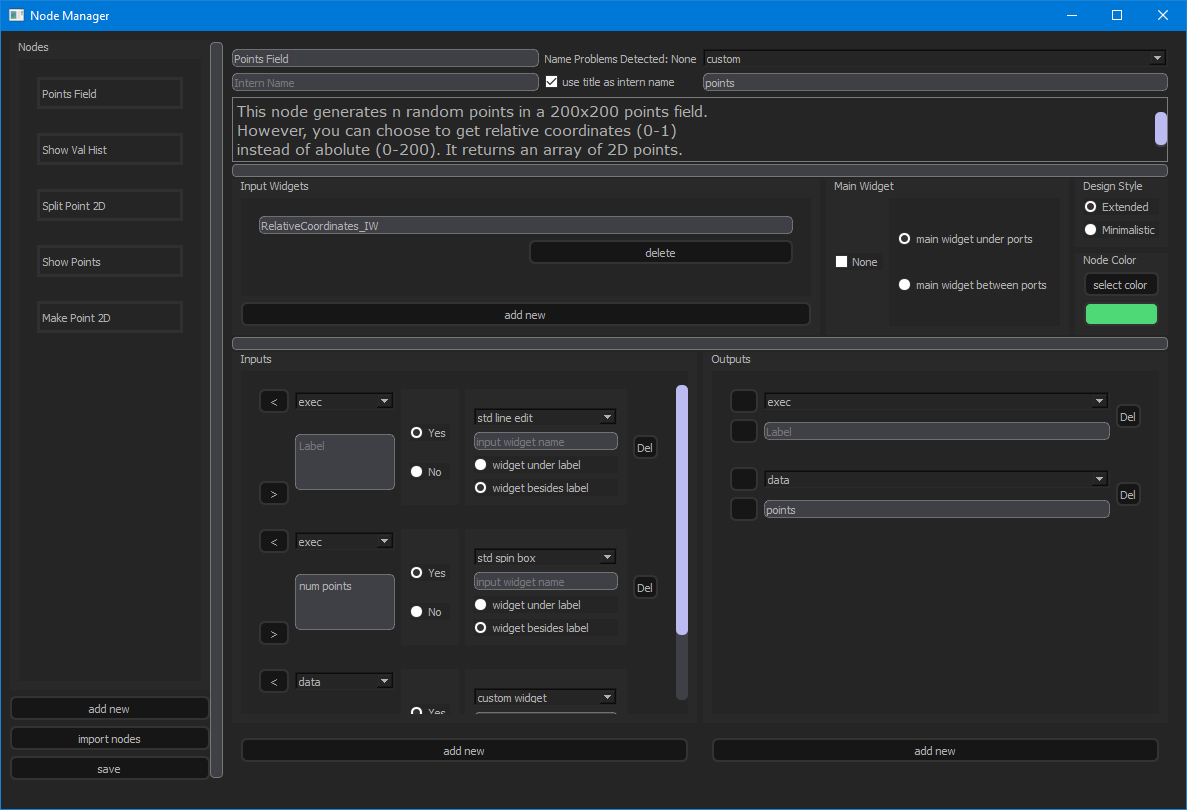
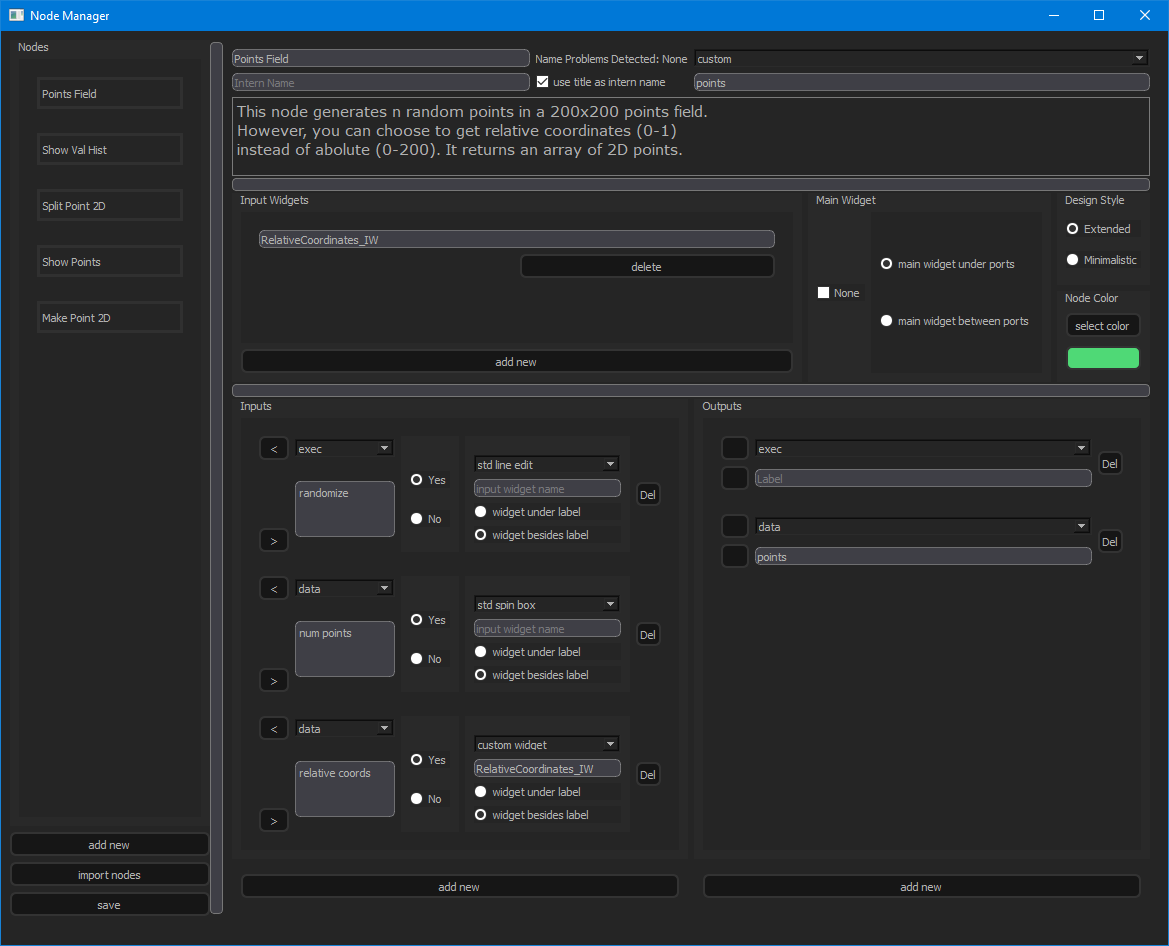
updated docs

diff --git a/docs/README.md b/docs/README.md
@@ -429,6 +429,8 @@ Let's build a node, that generates random 2D points and returns them as array. S
 
 ![](/resources/images/pyScript11.PNG)
 
+The title 'Points Field' can be converted into the valid class name 'PointsField', so that we can leave. The type is 'pints'. Then, I added a little description. The node also has a main widget which sits under the ports. Furthermore I want it to be able to deliver the points in absolute format as well as in relative. In absolute mode, the coordinates are given according to the widget (200x200 pixels), in relative mode this is scaled to 0-1. And I want this to be accesible via an input. That way we could later connect that to an extern boolean node output of another node. A check box would be the most reasonable representation. So the existence of this custom input widget is stated in the 'Input Widgets' with the name 'RelativeCoordinates_IW'. The node has three static inputs, one execution input to trigger the randomization, one for the number of points and the one specifying the scale of the coordinates. Is also has an exec output which should be executed after the 'randomize' input has been triggered and a 'points' data output where we will make the array of points accessible.
+
 # Advanced
 
 ## Tokens
